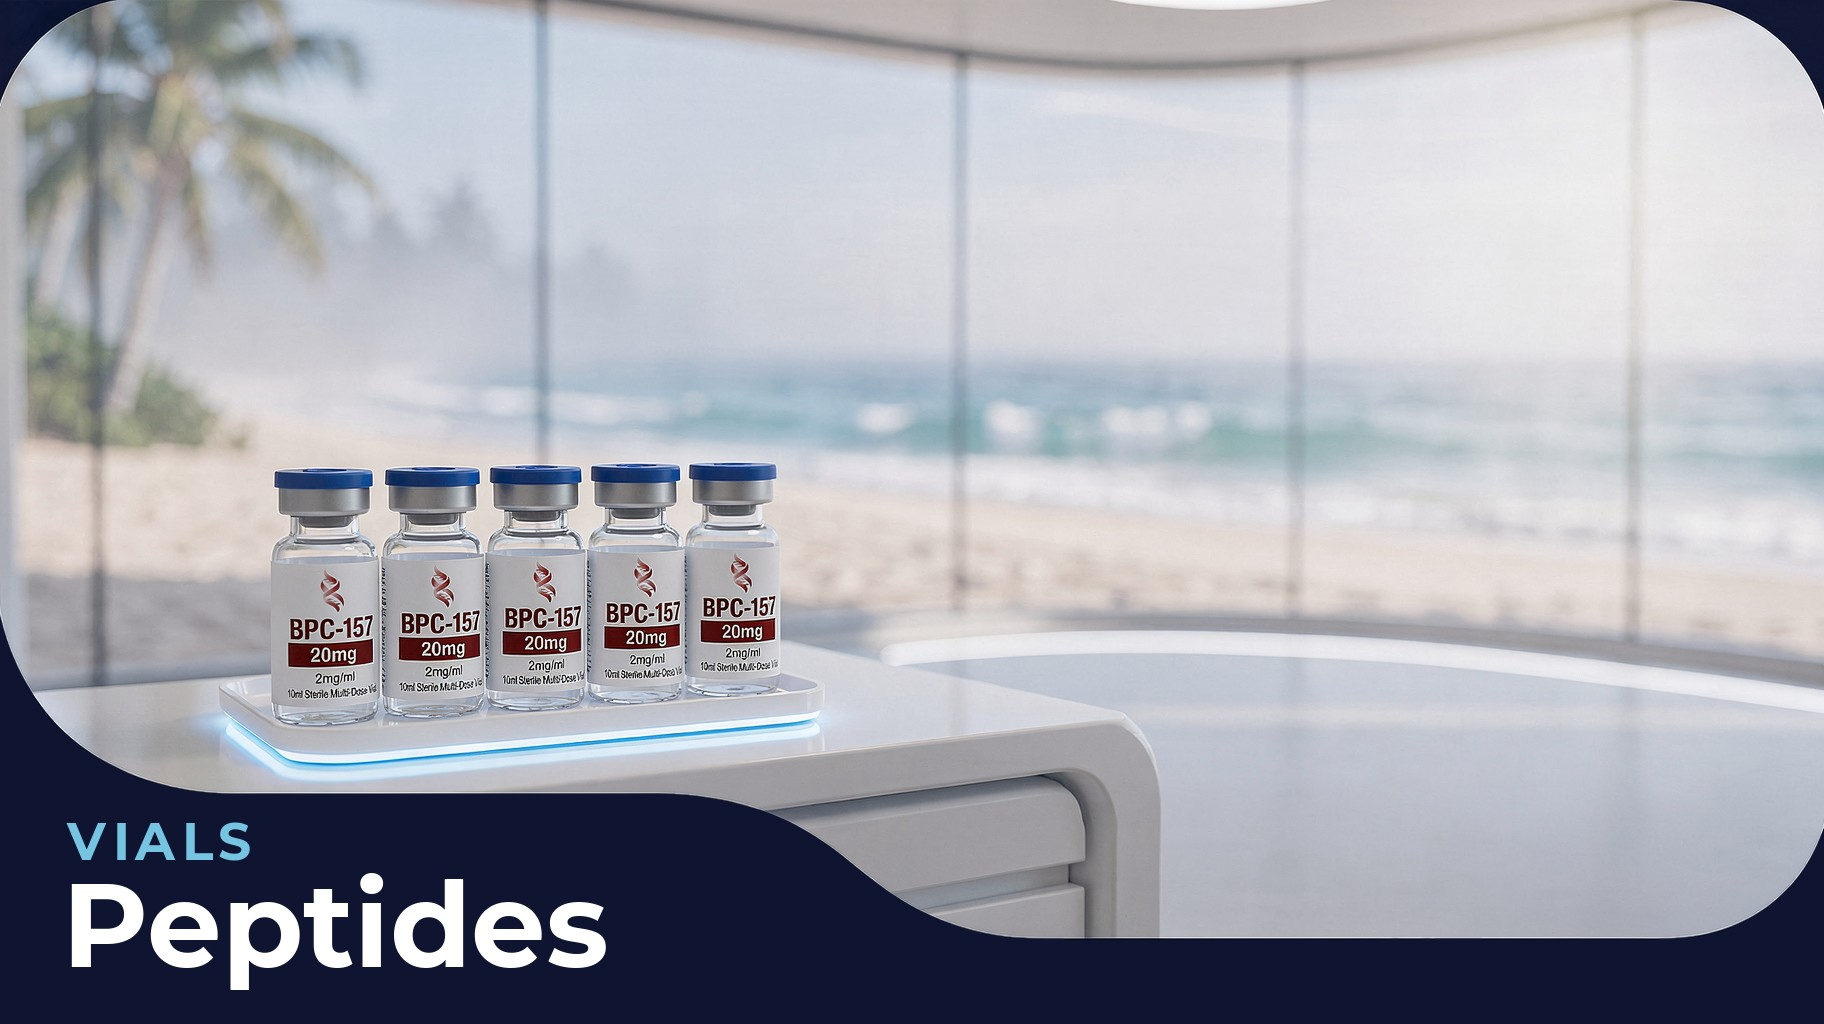
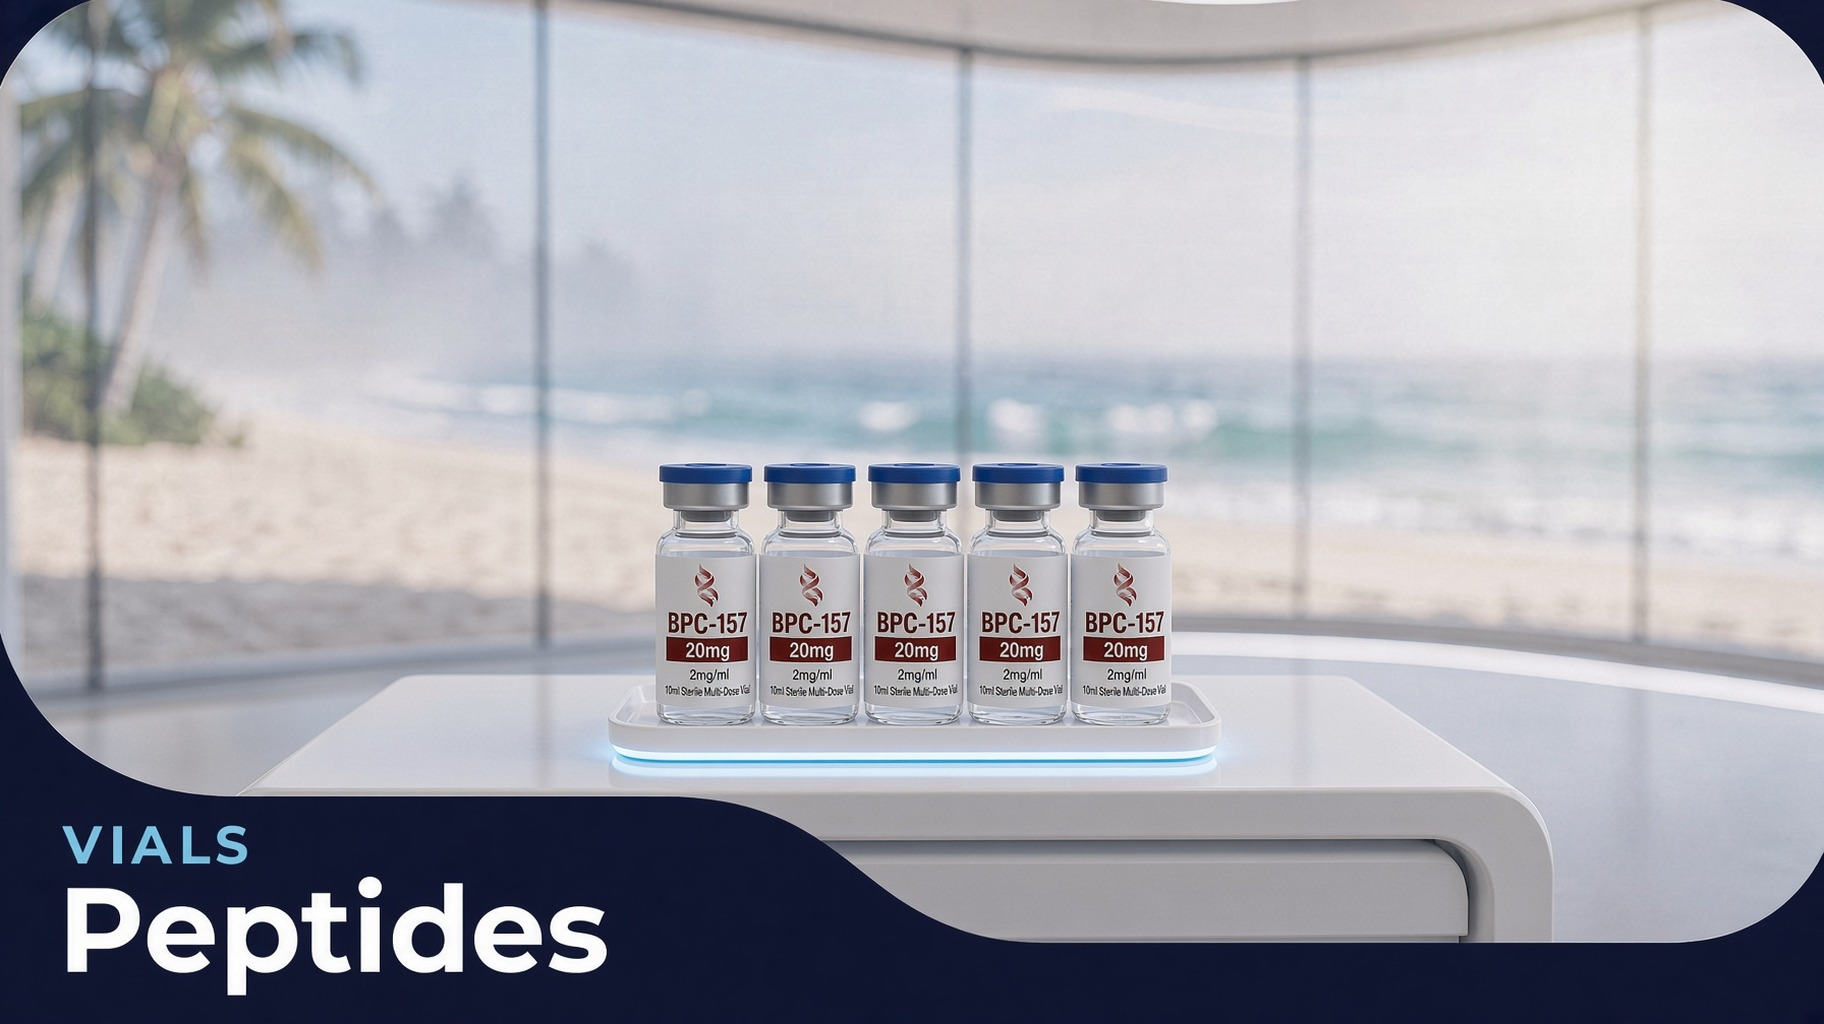
Replace three homepage collection tiles and bump to 2.10.86. (#112)
Vials/Peptides, Vials/Metabolic, and Pens/Metabolic get the new 1824 by 1024 art. Pens/Peptides stays the GHK-Cu tile. Existing ?ver= cache-busting picks up the new files.

diff --git a/woocommerce-migration/theme/palmbeach-vitality/style.css b/woocommerce-migration/theme/palmbeach-vitality/style.css
@@ -3,7 +3,7 @@ Theme Name: Palm Beach Vitality
 Theme URI: https://palmbeach-vitality.store
 Author: Palm Beach Vitality
 Description: WooCommerce storefront matched to the Shopify homepage — announcement bar, 2.35:1 logo banner, centered lab hero, FAQ accordion.
-Version: 2.10.85
+Version: 2.10.86
 Requires at least: 6.4
 Requires PHP: 8.1
 Text Domain: palmbeach-vitality

diff --git a/woocommerce-migration/theme/palmbeach-vitality/functions.php b/woocommerce-migration/theme/palmbeach-vitality/functions.php
@@ -9,7 +9,7 @@ if (!defined('ABSPATH')) {
     exit;
 }
 
-define('PBV_THEME_VERSION', '2.10.85');
+define('PBV_THEME_VERSION', '2.10.86');
 define('PBV_SEED_VERSION', '2.5.4');
 define('PBV_MENU_FIX_VERSION', '2.7.1');
 define('PBV_ANNOUNCE_FIX_VERSION', '2.10.72');
